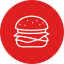
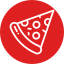
images edit
images edit

Changed region(s): [[0.125, 0.125, 0.875, 0.875]]

diff --git a/src/pages/Home.js b/src/pages/Home.js
@@ -107,8 +107,7 @@ const Home = () => {
                   </h1>
 
                   <p>
-                    Lorem ipsum dolor sit amet, consectetur adipisicing elit.
-                    Qui magni delectus tenetur autem, sint veritatis!
+                    so tasty n fluffy Doughnuts
                   </p>
 
                   <div className="hero__btns d-flex align-items-center gap-5 mt-4">
@@ -161,14 +160,6 @@ const Home = () => {
                 <h2 className="feature__title">
                   we will <span>take care</span>
                 </h2>
-                <p className="mb-1 mt-4 feature__text">
-                  Lorem, ipsum dolor sit amet consectetur adipisicing elit.
-                  Dolor, officiis?
-                </p>
-                <p className="feature__text">
-                  Lorem ipsum dolor sit amet consectetur adipisicing elit.
-                  Aperiam, eius.{" "}
-                </p>
               </Col>
 
               {featureData.map((item, index) => (
@@ -207,12 +198,12 @@ const Home = () => {
                   </button>
                   <button
                     className={`d-flex align-items-center gap-2 ${
-                      category === "BURGER" ? "foodBtnActive" : ""
+                      category === "DONUTS" ? "foodBtnActive" : ""
                     } `}
-                    onClick={() => setCategory("BURGER")}
+                    onClick={() => setCategory("DONUTS")}
                   >
                     <img src={foodCategoryImg01} alt="" />
-                    Burger
+                    Donuts
                   </button>
 
                   <button
@@ -259,21 +250,17 @@ const Home = () => {
                     Why <span>Tasty Treat?</span>
                   </h2>
                   <p className="tasty__treat-desc">
-                    Lorem ipsum dolor sit amet consectetur adipisicing elit.
-                    Dolorum, minus. Tempora reprehenderit a corporis velit,
-                    laboriosam vitae ullam, repellat illo sequi odio esse iste
-                    fugiat dolor, optio incidunt eligendi deleniti!
+                    Your local Doughnuts Kitchen and delivery. Very tasty and fluffy dunuts, quick delivery and guaranteed quality!
                   </p>
 
                   <ListGroup className="mt-4">
                     <ListGroupItem className="border-0 ps-0">
                       <p className=" choose__us-title d-flex align-items-center gap-2 ">
                         <i className="ri-checkbox-circle-line"></i> Fresh and
-                        tasty foods
+                        tasty
                       </p>
                       <p className="choose__us-desc">
-                        Lorem ipsum, dolor sit amet consectetur adipisicing
-                        elit. Quia, voluptatibus.
+                        Our food is fresh and readily made.Straight off the ovens.
                       </p>
                     </ListGroupItem>
 
@@ -283,8 +270,7 @@ const Home = () => {
                         support
                       </p>
                       <p className="choose__us-desc">
-                        Lorem ipsum dolor sit amet consectetur adipisicing elit.
-                        Qui, earum.
+                        consistent and timely delivery. very quick and proffesional riders.
                       </p>
                     </ListGroupItem>
 
@@ -294,8 +280,7 @@ const Home = () => {
                         any location{" "}
                       </p>
                       <p className="choose__us-desc">
-                        Lorem ipsum dolor sit amet consectetur adipisicing elit.
-                        Qui, earum.
+                        We deliver to all locations within Georgia.
                       </p>
                     </ListGroupItem>
                   </ListGroup>
@@ -331,9 +316,7 @@ const Home = () => {
                     What our <span>customers</span> are saying
                   </h2>
                   <p className="testimonial__desc">
-                    Lorem ipsum dolor sit amet consectetur, adipisicing elit.
-                    Distinctio quasi qui minus quos sit perspiciatis inventore
-                    quis provident placeat fugiat!
+                    See what other customers have to say about us!
                   </p>
 
                   <TestimonialSlider />

diff --git a/src/components/UI/slider/TestimonialSlider.js b/src/components/UI/slider/TestimonialSlider.js
@@ -22,38 +22,29 @@ const TestimonialSlider = () => {
     <Slider {...settings}>
       <div>
         <p className="review__text">
-          "Lorem ipsum dolor sit amet consectetur adipisicing elit. Perferendis
-          atque, quam minus totam maiores laborum! Impedit consectetur illum
-          aliquid odit. Odit dolore ipsum quod debitis nostrum necessitatibus
-          quis dolorem quas!"
+          "Very tasty. will definately order again!"
         </p>
         <div className=" slider__content d-flex align-items-center gap-3 ">
           <img src={ava01} alt="avatar" className=" rounded" />
-          <h6>Jhon Doe</h6>
+          <h6>John Doe</h6>
         </div>
       </div>
       <div>
         <p className="review__text">
-          "Lorem ipsum dolor sit amet consectetur adipisicing elit. Perferendis
-          atque, quam minus totam maiores laborum! Impedit consectetur illum
-          aliquid odit. Odit dolore ipsum quod debitis nostrum necessitatibus
-          quis dolorem quas!"
+          "Excellent packaging. sizes 12 were perfect!"
         </p>
         <div className="slider__content d-flex align-items-center gap-3 ">
           <img src={ava02} alt="avatar" className=" rounded" />
-          <h6>Mitchell Marsh</h6>
+          <h6>Mitch Meadow</h6>
         </div>
       </div>
       <div>
         <p className="review__text">
-          "Lorem ipsum dolor sit amet consectetur adipisicing elit. Perferendis
-          atque, quam minus totam maiores laborum! Impedit consectetur illum
-          aliquid odit. Odit dolore ipsum quod debitis nostrum necessitatibus
-          quis dolorem quas!"
+          "Great job Dorry!"
         </p>
         <div className="slider__content d-flex align-items-center gap-3 ">
           <img src={ava03} alt="avatar" className=" rounded" />
-          <h6>Steven Crock</h6>
+          <h6>Steve Meaw</h6>
         </div>
       </div>
     </Slider>

diff --git a/src/components/Footer.js b/src/components/Footer.js
@@ -14,10 +14,9 @@ const Footer = () => {
           <Col lg="3" md="4" sm="6">
             <div className=" footer__logo text-start">
               <img src={logo} alt="logo" />
-              <h5>Tasty Treat</h5>
+              <h5>Doughy Donuts</h5>
               <p>
-                Lorem ipsum dolor sit amet consectetur adipisicing elit.
-                Nesciunt pariatur accusamus
+                Perfect homemade donuts. tasty and fluffy
               </p>
             </div>
           </Col>
@@ -41,14 +40,14 @@ const Footer = () => {
             <h5 className="footer__title">Contact</h5>
             <ListGroup className="deliver__time-list">
               <ListGroupItem className=" delivery__time-item border-0 ps-0">
-                <p>Location: ZindaBazar, Sylhet-3100, Bangladesh</p>
+                <p>Location: Homearea, Burrows -1330, Georgia</p>
               </ListGroupItem>
               <ListGroupItem className=" delivery__time-item border-0 ps-0">
-                <span>Phone: 01712345678</span>
+                <span>Phone: 0708060400</span>
               </ListGroupItem>
 
               <ListGroupItem className=" delivery__time-item border-0 ps-0">
-                <span>Email: example@gmail.com</span>
+                <span>Email: dorrycheng@gmail.com</span>
               </ListGroupItem>
             </ListGroup>
           </Col>
@@ -68,7 +67,7 @@ const Footer = () => {
         <Row className="mt-5">
           <Col lg="6" md="6">
             <p className="copyright__text">
-              Copyright - 2022, website made by MacThien. All Rights
+              Copyright - 2023, website made by Doreen. All Rights
               Reserved.
             </p>
           </Col>

diff --git a/src/pages/Dashboard/product/AddProduct.js b/src/pages/Dashboard/product/AddProduct.js
@@ -105,17 +105,6 @@ const AddProduct = () => {
     useEffect(() => {
         dispatch(getCategory());
     }, [dispatch]);
-
-    //lưu object category trong database post
-    // const handleClickOption = (item) => {
-    //     let categoryFilter = category.find(categories => categories.id === item);
-    //     setValue('category', {
-    //         id: categoryFilter.id,
-    //         name: categoryFilter.name
-    //     });
-    //     setValue('category_id', item);
-    // }
-
     return (
         <Home name='Add product'>
             <div id="page-wrapper">

diff --git a/src/components/UI/category/Category.js b/src/components/UI/category/Category.js
@@ -11,21 +11,21 @@ import "../../../styles/category.css";
 
 const categoryData = [
   {
-    display: "Fastfood",
+    display: "Plain",
     imgUrl: categoryImg01,
   },
   {
-    display: "Pizza",
+    display: "Stuffings",
     imgUrl: categoryImg02,
   },
 
   {
-    display: "Asian Food",
+    display: "Toppings",
     imgUrl: categoryImg03,
   },
 
   {
-    display: "Row Meat",
+    display: "Packaging",
     imgUrl: categoryImg04,
   },
 ];

diff --git a/src/components/Header.js b/src/components/Header.js
@@ -88,7 +88,7 @@ const Header = () => {
         <div className="nav__wrapper d-flex align-items-center justify-content-between">
           <Link style={{cursor:'pointer'}} to='/' className="logo">
             <img src={logo} alt="logo" />
-            <h5>Tasty Treat</h5>
+            <h5>Doughy Donuts</h5>
           </Link>
 
           {/* ======= menu ======= */}

diff --git a/src/components/Helmet.js b/src/components/Helmet.js
@@ -1,7 +1,7 @@
 import React from "react";
 
 const Helmet = (props) => {
-  document.title = "Food ordering app -" + props.title;
+  document.title = "Donuts ordering app -" + props.title;
   return <div className="w-100">{props.children}</div>;
 };
 
